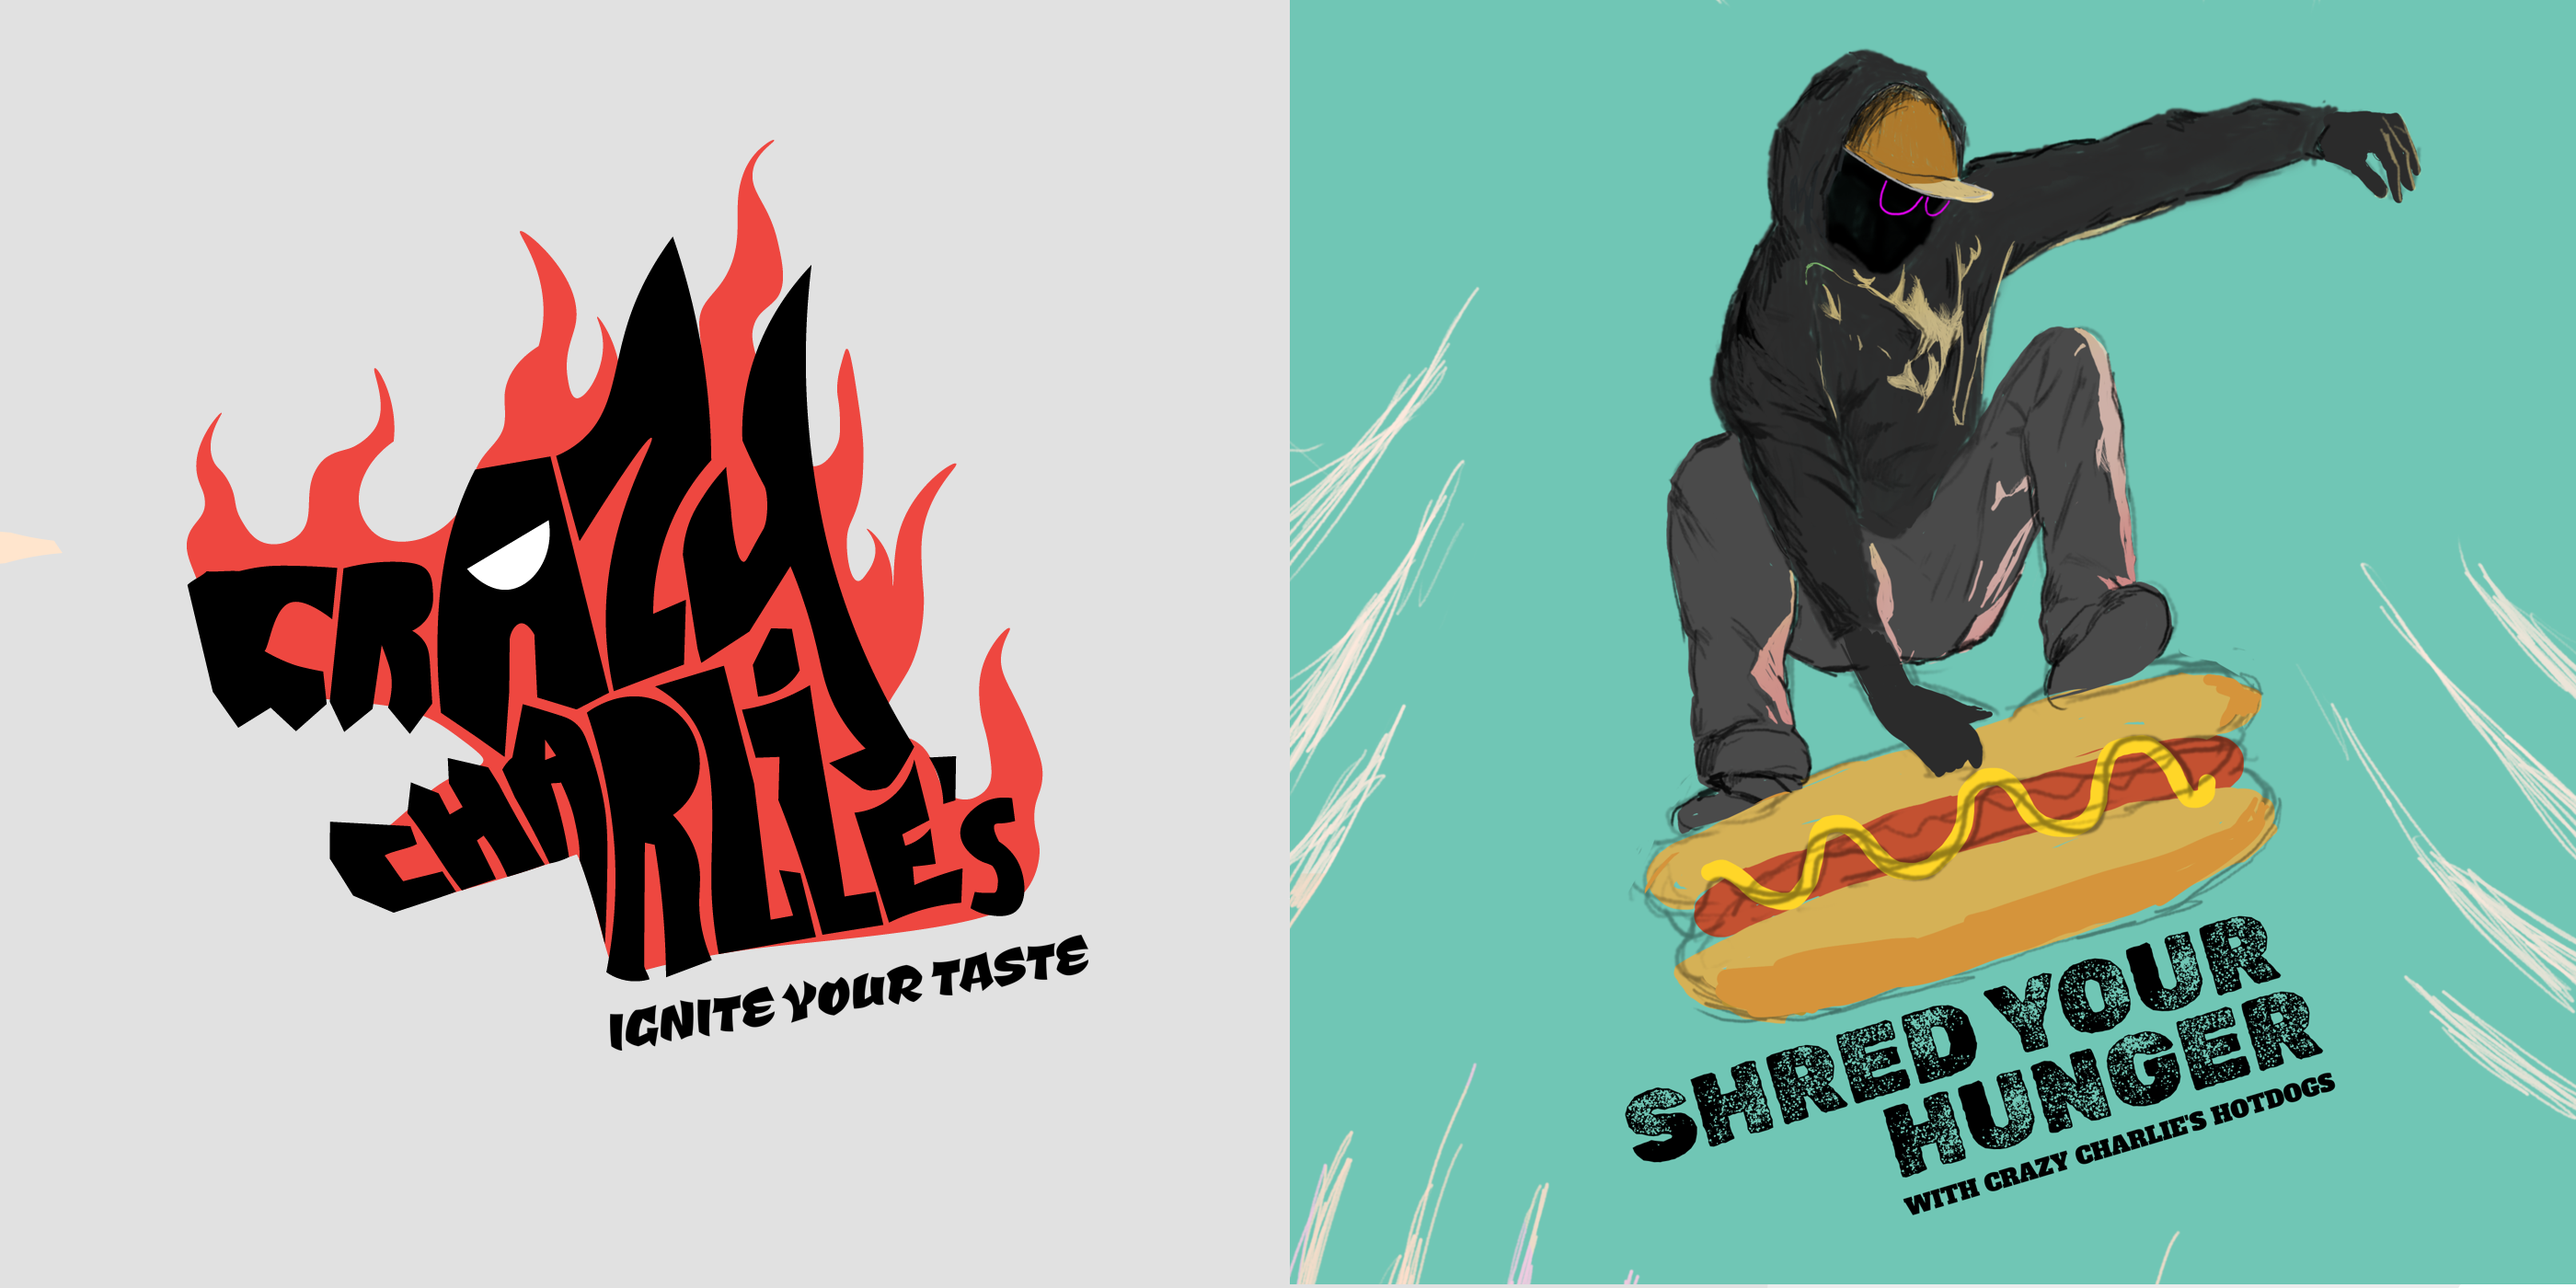
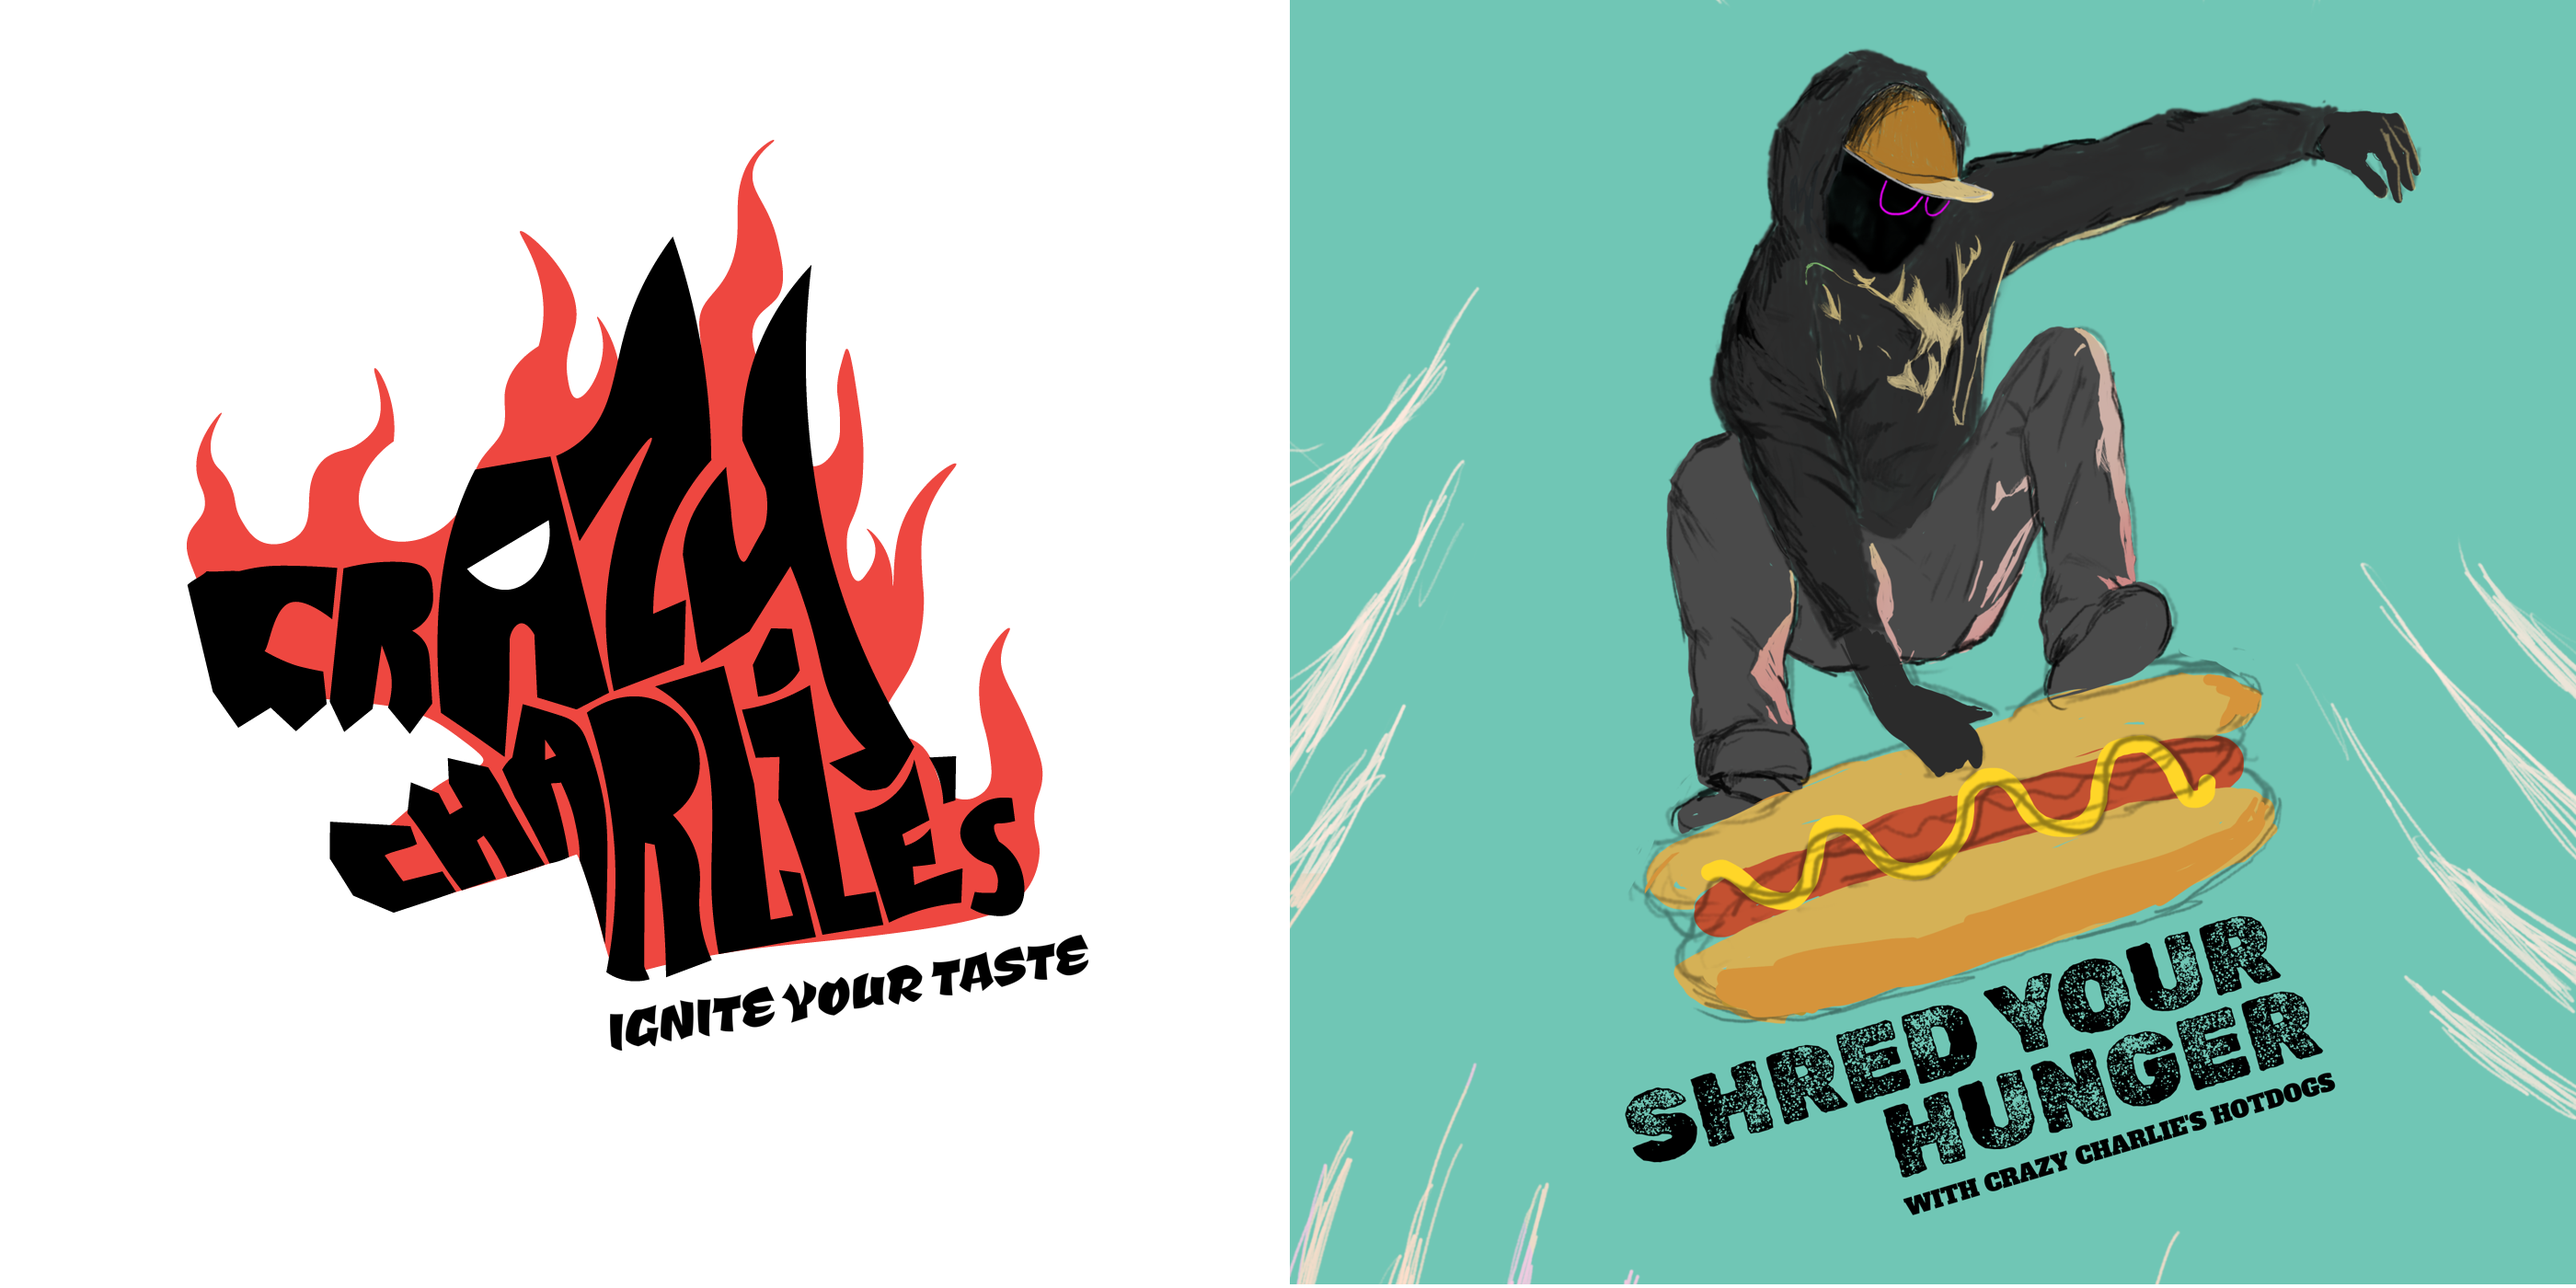
changed crazy charlies cover background

diff --git a/index.html b/index.html
@@ -145,7 +145,7 @@
     <img src="./trademarks/e-community-service.png" alt="">
     <div class="absolute inset-0 bg-black opacity-0 group-hover:opacity-50 transition-opacity"></div>
     <div class="text-lg font-bold absolute inset-0 flex items-center justify-center text-white text-lg opacity-0 group-hover:opacity-100 transition-opacity">
-      e-community-service.org logo design
+      e-community-service.org logo
     </div>
   </a>
 
@@ -153,11 +153,11 @@
     <img src="./images/font1.png" alt="">
     <div class="absolute inset-0 bg-black opacity-0 group-hover:opacity-70 transition-opacity"></div>
     <div class="text-lg font-bold absolute inset-0 flex items-center justify-center text-white text-lg opacity-0 group-hover:opacity-100 transition-opacity">
-      "Terminal Display" font design
+      "Terminal Display" font
     </div>
   </a>
 
-  <a class="relative group bg-slate-600 col-span-2 sm:min-h-[150px] h-fit hover:shadow-xl" href="./crazy_charlies.html">
+  <a class="relative group bg-slate-100 col-span-2 sm:min-h-[150px] h-fit hover:shadow-xl" href="./crazy_charlies.html">
     <img src="./images/crazy_charlies/cover.png" alt="">
     <div class="absolute inset-0 bg-black opacity-0 group-hover:opacity-70 transition-opacity"></div>
     <div class="text-lg font-bold absolute inset-0 flex flex-col items-center justify-center text-white text-lg opacity-0 group-hover:opacity-100 transition-opacity">

diff --git a/css/main.css b/css/main.css
@@ -657,24 +657,16 @@ video {
   margin-top: 1rem;
 }
 
-.mt-1 {
-  margin-top: 0.25rem;
-}
-
-.mt-3 {
-  margin-top: 0.75rem;
+.mt-5 {
+  margin-top: 1.25rem;
 }
 
 .mt-2 {
   margin-top: 0.5rem;
 }
 
-.mt-6 {
-  margin-top: 1.5rem;
-}
-
-.mt-5 {
-  margin-top: 1.25rem;
+.mt-1 {
+  margin-top: 0.25rem;
 }
 
 .box-border {
@@ -984,6 +976,11 @@ video {
   background-color: rgb(196 203 217 / var(--tw-bg-opacity));
 }
 
+.bg-slate-100 {
+  --tw-bg-opacity: 1;
+  background-color: rgb(241 245 249 / var(--tw-bg-opacity));
+}
+
 .fill-darkGray {
   fill: #777;
 }
@@ -1117,14 +1114,6 @@ video {
 
 .pt-36 {
   padding-top: 9rem;
-}
-
-.pb-4 {
-  padding-bottom: 1rem;
-}
-
-.pt-4 {
-  padding-top: 1rem;
 }
 
 .text-left {
@@ -1523,10 +1512,6 @@ video {
 
   .md\:row-span-4 {
     grid-row: span 4 / span 4;
-  }
-
-  .md\:row-span-3 {
-    grid-row: span 3 / span 3;
   }
 
   .md\:block {
